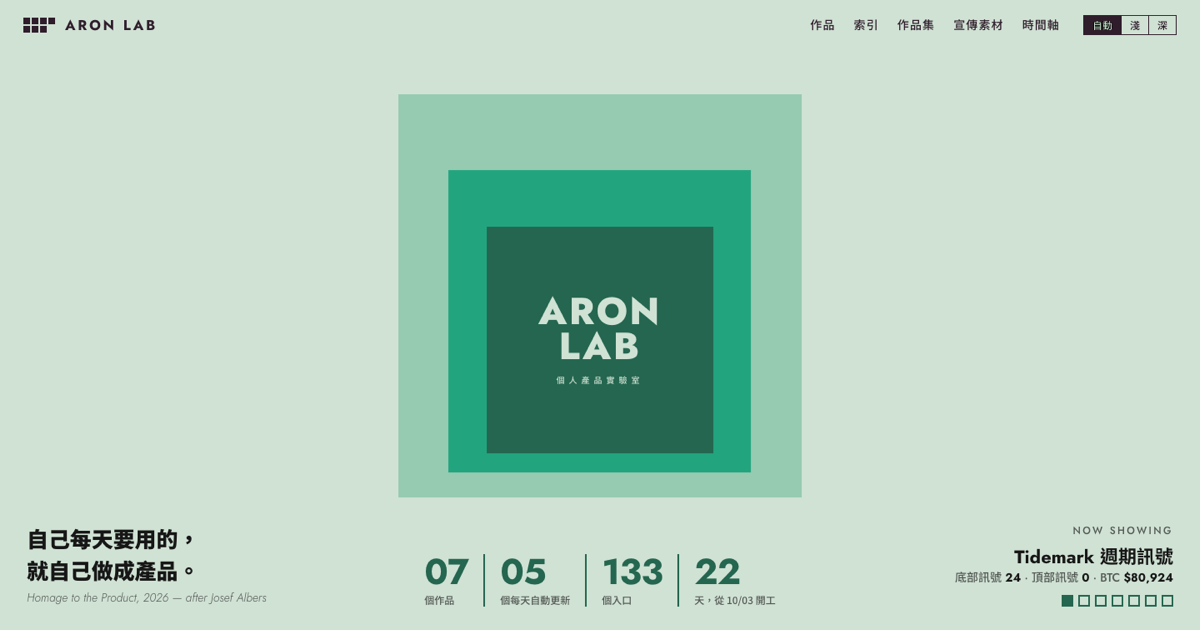
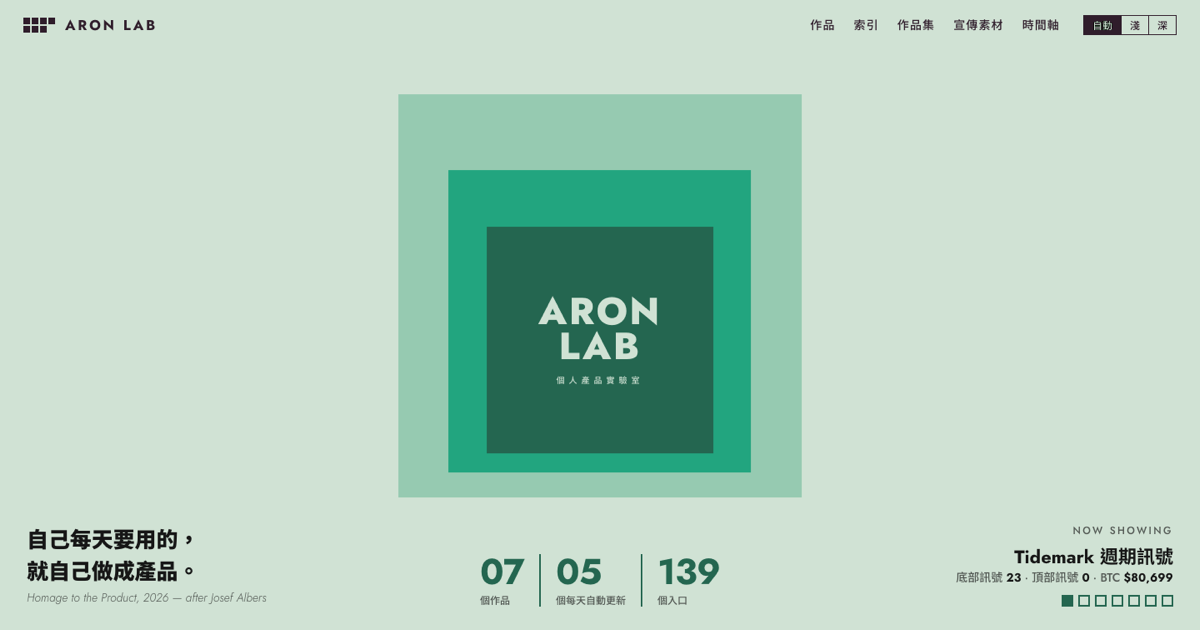
個人主頁同步新版內容；首屏拿掉開工天數
- 作品集卡片「個人作品集」改為「個人主頁」：標題、介紹、角色與領域照新版主頁，重拍封面，按鈕改「前往主頁」
- 索引加入主頁的方法、作品、更新紀錄、能力、聯絡與新的履歷頁
- 首屏數字拿掉「幾天，從哪天開工」，分享圖跟著重拍
- OneStroke 卡片照產品案例頁拿掉開發天數，改寫「可試賣的 MVP」

Changed region(s): [[0.3392, 0.8746, 0.6475, 0.9651], [0.8017, 0.9048, 0.8633, 0.9349], [0.9558, 0.9048, 0.9867, 0.9349]]

diff --git a/data/lab.js b/data/lab.js
@@ -1,7 +1,7 @@
 // Aron Lab 的全部內容都在這裡。加新作品：在 products 最後加一筆（no 接著編），頁面、索引、時間軸會自動長出來。
 // 欄位說明見 README.md。網址可以寫完整網址，或寫相對於 site 的路徑（例如 '#news'、'en/'）。
 window.LAB = {
-  updated: '2026-10-24',
+  updated: '2026-10-25',
   owner: {
     name: 'Aron Song',
     github: 'https://github.com/North7',
@@ -161,7 +161,7 @@ window.LAB = {
       started: '2026-10-20',
       tagline: '上傳一段練球影片，自動切出每一拍、打分數，像教練一樣診斷。',
       desc: '2D／3D 姿態、每拍 0–100 分、SAM 3D 重建、Claude 寫教練式分析，產出手機可看的報告與分享影片。支援教練與學員分開管理。',
-      facts: ['5 天從想法到可試賣', '手機直接上傳', 'PDF 報告與分享影片'],
+      facts: ['可試賣的 MVP', '手機直接上傳', 'PDF 報告與分享影片'],
       site: null,
       repo: 'https://github.com/North7/onestroke',
       repoPrivate: true,
@@ -302,19 +302,21 @@ window.LAB = {
       id: 'onestroke-case', product: 'onestroke',
       title: '用手機影片看懂每一拍',
       sub: 'OneStroke 產品案例',
-      desc: '市面上的分析工具給了分數，卻說不出差在哪、下一步練什麼。用 5 天把它做成可以拿去試賣的網球分析產品。',
-      meta: [['角色', '產品負責人（定義、研究、驗證、設計決策）'], ['期間', '2026/10/20 – 10/24'], ['形態', '手機網頁＋本機運算']],
+      desc: '市面上的分析工具給了分數，卻說不出差在哪、下一步練什麼。我把這個困擾做成一個可以拿去試賣的網球分析產品。',
+      meta: [['角色', '產品負責人（定義、研究、驗證、設計決策）'], ['階段', '可試賣的 MVP'], ['形態', '手機網頁＋本機運算']],
       url: 'https://north7.github.io/portfolio/onestroke/',
       cover: 'assets/covers/onestroke-case.jpg',
     },
     {
-      id: 'portfolio', product: null,
-      title: 'Beyond Logic. Pure Intuition.',
-      sub: 'Aron Song 個人作品集',
-      desc: '產品架構師，13 年 Web3 與 AI 領域，專注於 0 到 1 的架構設計與商業落地。',
-      meta: [['角色', 'Product Architect'], ['領域', 'Web3 · AI 產品 · DeFi'], ['內容', '理念、作品、經歷']],
+      id: 'portfolio', product: null, type: 'site', go: '前往主頁',
+      title: 'Complex systems. Intuitive products.',
+      sub: 'Aron Song 個人主頁',
+      desc: '從複雜的代碼到直觀的產品體驗。13 年產品與工程經驗（11 年產品管理），橫跨 Web3 金融科技與 AI 醫療，專注於 0 到 1 的架構設計與商業落地。',
+      meta: [['角色', 'Product Architect · 產品架構師'], ['領域', 'Web3 FinTech · AI MedTech'], ['內容', '方法、作品、職涯更新紀錄、能力、履歷']],
       url: 'https://north7.github.io/portfolio/',
       cover: 'assets/covers/portfolio.jpg',
+      chaptersLabel: '個人主頁',
+      chapters: [['方法', '#approach'], ['作品', '#work'], ['更新紀錄', '#changelog'], ['能力', '#stack'], ['聯絡', '#contact'], ['履歷', 'resume/']],
     },
   ],
 

diff --git a/assets/app.js b/assets/app.js
@@ -60,7 +60,10 @@
     L.works.filter((w) => w.product === p.id && w.chapters).forEach((w) => w.chapters.forEach(([t, h]) => entries.push({ p, t: `作品集 › ${t}`, u: abs(w.url, h), type: 'case' })));
     if (!p.site && !p.links.some((l) => l.type === 'local')) entries.push({ p, t: `${p.name} ${p.zh}（只在自己的 Mac 上開啟）`, u: null, type: 'private' });
   });
-  L.works.filter((w) => !w.product).forEach((w) => entries.push({ p: ME, t: w.sub, u: w.url, type: 'case' }));
+  L.works.filter((w) => !w.product).forEach((w) => {
+    entries.push({ p: ME, t: w.sub, u: w.url, type: w.type || 'case' });
+    (w.chapters || []).forEach(([t, h]) => entries.push({ p: ME, t, u: abs(w.url, h), type: 'section', label: w.chaptersLabel }));
+  });
   entries.push({ p: ME, t: 'GitHub · North7', u: L.owner.github, type: 'social' });
   entries.push({ p: ME, t: `X ${L.owner.xHandle}`, u: L.owner.x, type: 'social' });
   const countFor = (p) => entries.filter((e) => e.p === p).length;
@@ -81,7 +84,7 @@
   const first = P.map((p) => p.started).sort()[0];
   $('stats').innerHTML = [
     [pad(P.length), '個作品'], [pad(P.filter((p) => p.status === 'live').length), '個每天自動更新'],
-    [entries.length, '個入口'], [dayDiff(first, todayISO) + 1, `天，從 ${md(first)} 開工`],
+    [entries.length, '個入口'],
   ].map(([n, t]) => `<div><dt>${n}</dt><dd>${t}</dd></div>`).join('');
 
   // ── 首屏：每 4.2 秒換成下一個作品的配色 ──
@@ -230,14 +233,14 @@
     const p = byId[w.product] || ME;
     const ch = (w.chapters || []).map(([t, h]) => `<a href="${abs(w.url, h)}" target="_blank" rel="noopener">${esc(t)}</a>`).join('');
     return `<article class="case pc" style="--pc:${p.color}">
-      <a class="cv" href="${w.url}" target="_blank" rel="noopener" aria-label="閱讀 ${esc(w.sub)}"><img src="${asset(w.cover)}" alt="${esc(w.sub)} 封面" loading="lazy"></a>
+      <a class="cv" href="${w.url}" target="_blank" rel="noopener" aria-label="${esc(w.go || '閱讀')} ${esc(w.sub)}"><img src="${asset(w.cover)}" alt="${esc(w.sub)} 封面" loading="lazy"></a>
       <div class="b">
         <div class="sub"><i></i>${esc(w.sub)}</div>
         <h3>${esc(w.title)}</h3>
         <p>${esc(w.desc)}</p>
         <dl>${w.meta.map(([k2, v]) => `<dt>${esc(k2)}</dt><dd>${esc(v)}</dd>`).join('')}</dl>
         ${ch ? `<div class="ch">${ch}</div>` : ''}
-        <div class="go"><a href="${w.url}" target="_blank" rel="noopener">閱讀全文 ↗</a></div>
+        <div class="go"><a href="${w.url}" target="_blank" rel="noopener">${esc(w.go || '閱讀全文')} ↗</a></div>
       </div>
     </article>`;
   }).join('');

diff --git a/assets/app.css b/assets/app.css
@@ -61,7 +61,7 @@ button { font: inherit; color: inherit; }
 .hero-bar { position: absolute; left: 0; right: 0; bottom: 0; display: grid; grid-template-columns: 1fr auto 1fr; align-items: end; gap: 30px; padding: 0 32px 28px; color: var(--tx); }
 .cap p { margin: 0; font: 900 clamp(19px, 1.8vw, 26px)/1.45 var(--cjk); }
 .cap span { display: block; margin-top: 6px; font: 300 italic 14px/1.4 var(--geo); color: var(--tx2); }
-.stats { display: grid; grid-template-columns: repeat(4, auto); gap: 0; margin: 0; }
+.stats { display: grid; grid-template-columns: repeat(3, auto); gap: 0; margin: 0; }
 .stats div { padding: 0 18px; border-left: 2px solid var(--t4); }
 .stats div:first-child { border-left: 0; }
 .stats dt { font: 700 clamp(30px, 3vw, 44px)/1 var(--geo); letter-spacing: -.02em; color: var(--t4); }
@@ -288,7 +288,7 @@ button.m-item:hover img { transform: scale(1.02); }
   .hero { min-height: 700px; }
   .hero .stage { width: 78vw; top: 38%; }
   .hero-bar { grid-template-columns: 1fr; gap: 18px; padding: 0 20px 22px; }
-  .stats { grid-template-columns: repeat(4, auto); justify-content: start; }
+  .stats { grid-template-columns: repeat(3, auto); justify-content: start; }
   .stats div { padding: 0 12px; } .stats div:first-child { padding-left: 0; }
   .stats dt { font-size: 26px; }
   .now { justify-self: start; text-align: left; }

diff --git a/README.md b/README.md
@@ -20,10 +20,10 @@
 
 | # | 章節 | 內容 |
 |---|---|---|
-| — | 首屏 | 方形每 4.2 秒換成下一個作品的配色；右下角顯示那個作品的即時數據（Tidemark 訊號、Daybreak BTC 收盤、Morningbell S&P／加權、Market Ticker 版本）；底部是作品數、上線數、入口數、開工天數 |
+| — | 首屏 | 方形每 4.2 秒換成下一個作品的配色；右下角顯示那個作品的即時數據（Tidemark 訊號、Daybreak BTC 收盤、Morningbell S&P／加權、Market Ticker 版本）；底部是作品數、每天自動更新數、入口數 |
 | 01 | 作品 | 每個作品一整片色場：方形裡是領域符號（加密＝圓、股市＝方、運動＝三角、健康＝半圓），滑過顯示畫面；旁邊是簡介、即時數據、所有版面／分頁色塊、按鈕與「全部 N 個入口」 |
 | 02 | 分頁索引 | 所有入口（首頁、分頁、作品集章節、語言版本、資料、工具、原始碼、本機、舊版、封存主題），預設每個作品只露出第一列、其餘折疊（搜尋或只看單一作品時全部攤開）；可搜尋、依作品或類型篩選；按 `/` 直接搜尋 |
-| 03 | 作品集 | 案例研究：Tidemark 作品集、OneStroke 產品案例、個人作品集 |
+| 03 | 作品集 | 案例研究：Tidemark 作品集、Daybreak 與 OneStroke 產品案例，以及個人主頁 |
 | 04 | 宣傳素材 | 有 `promo` 的作品會出現在這裡：影片（捲到畫面裡自動無聲播放）、海報、說明圖橫向捲動，點圖放大（← → 切換、Esc 關閉），附下載 |
 | 05 | 時間軸 | 每個作品從開工到今天的甘特圖，加上里程碑紀錄 |
 
